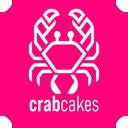
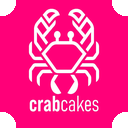
Fix: add white background layer before rounding corners, fix inverted corner alpha

diff --git a/utils/image_utils.py b/utils/image_utils.py
@@ -24,17 +24,24 @@ def convert_logo_to_icons(jpg_path: str, output_dir: str) -> list[str]:
     sizes = [16, 32, 48, 64, 128, 256]
     outputs = []
 
+    def _add_white_background(img: Image.Image) -> Image.Image:
+        """Composite logo onto a solid white background."""
+        bg = Image.new("RGBA", img.size, (255, 255, 255, 255))  # white canvas
+        if img.mode != "RGBA":
+            img = img.convert("RGBA")
+        if img.mode in ("RGB", "RGBA") and img.size == bg.size:
+            bg.paste(img, (0, 0))  # paste uses alpha if RGBA
+        return bg
+
     def _add_rounded_corners(img: Image.Image, radius: int) -> Image.Image:
         """Add rounded corners to an image using an alpha mask.
 
         Mask: 0 = transparent (corners), 255 = opaque (body).
-        Uses direct pixel loop with circle equation — reliable, no PIL ellipse quirks.
+        Uses direct pixel loop with circle equation.
         """
-        img = img.convert("RGBA")
         w, h = img.size
         r = min(radius, min(w, h) // 2)
 
-        # Build mask: 255 = keep, 0 = cut (corner circle)
         mask = Image.new("L", (w, h), 255)
         for x in range(r):
             for y in range(r):
@@ -48,16 +55,15 @@ def convert_logo_to_icons(jpg_path: str, output_dir: str) -> list[str]:
         return img
 
     with Image.open(jpg_path) as img:
-        # Convert to RGBA (handles transparency + palette modes)
         if img.mode not in ("RGB", "RGBA"):
             img = img.convert("RGBA")
 
         for size in sizes:
             out_path = os.path.join(output_dir, f"{size}.png")
-            # High-quality resize using LANCZOS
+            # Resize, add white background, then round corners
             resized = img.resize((size, size), Image.LANCZOS)
-            # Add rounded corners — radius scales with size
-            rounded = _add_rounded_corners(resized, radius=max(2, size // 10))
+            with_bg = _add_white_background(resized)
+            rounded = _add_rounded_corners(with_bg, radius=max(2, size // 8))
             rounded.save(out_path, format="PNG")
             outputs.append(out_path)
             print(f"  Saved: {out_path}")
